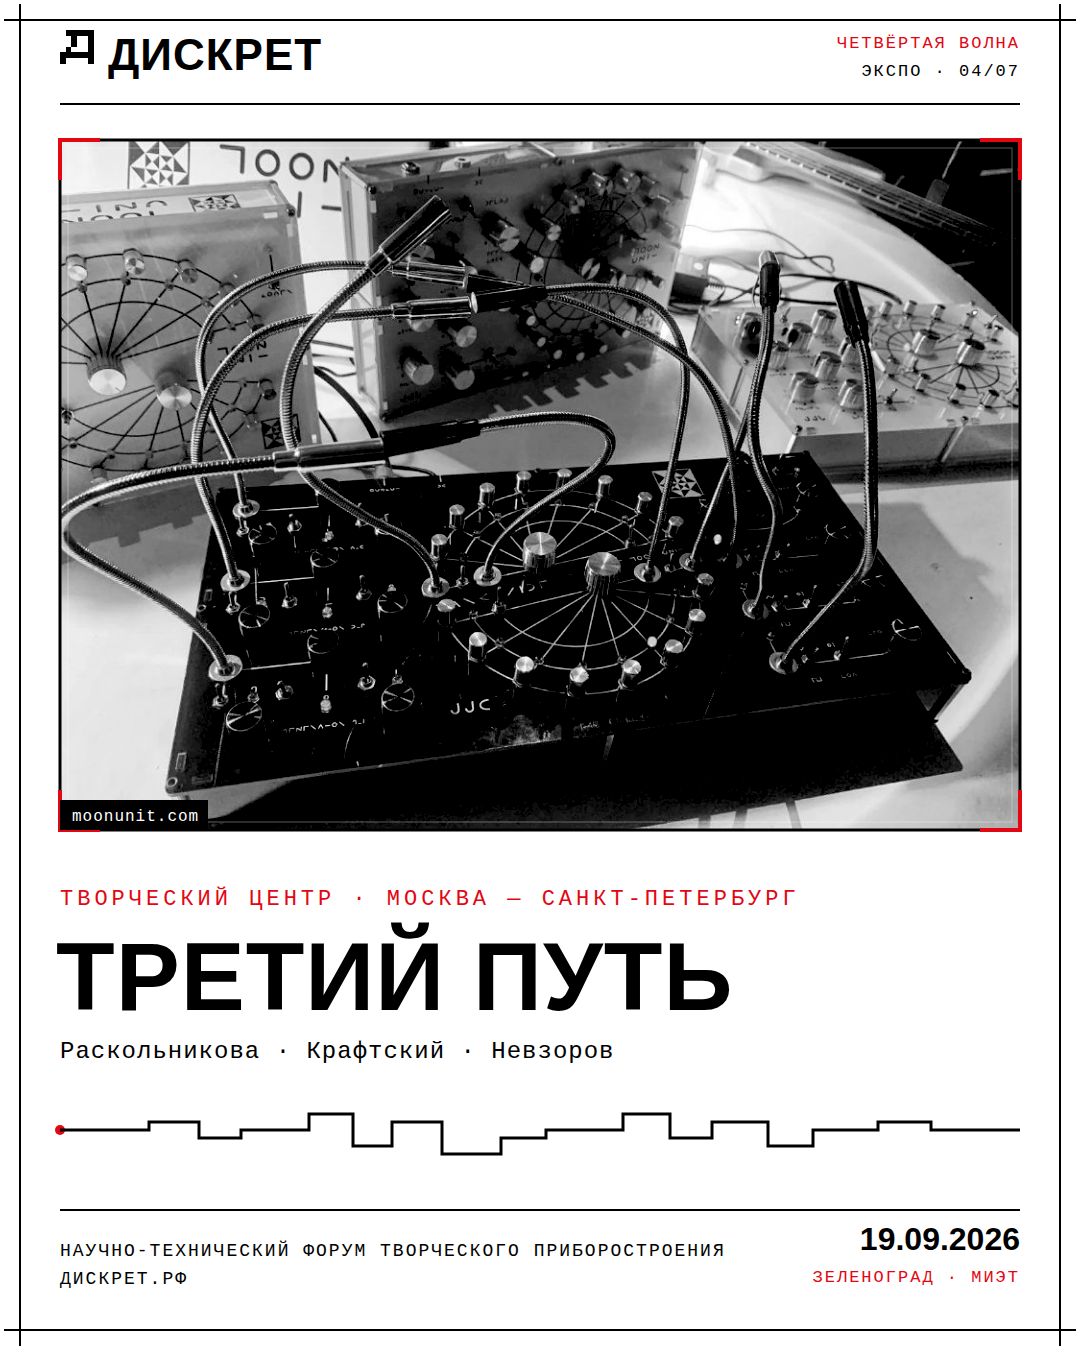
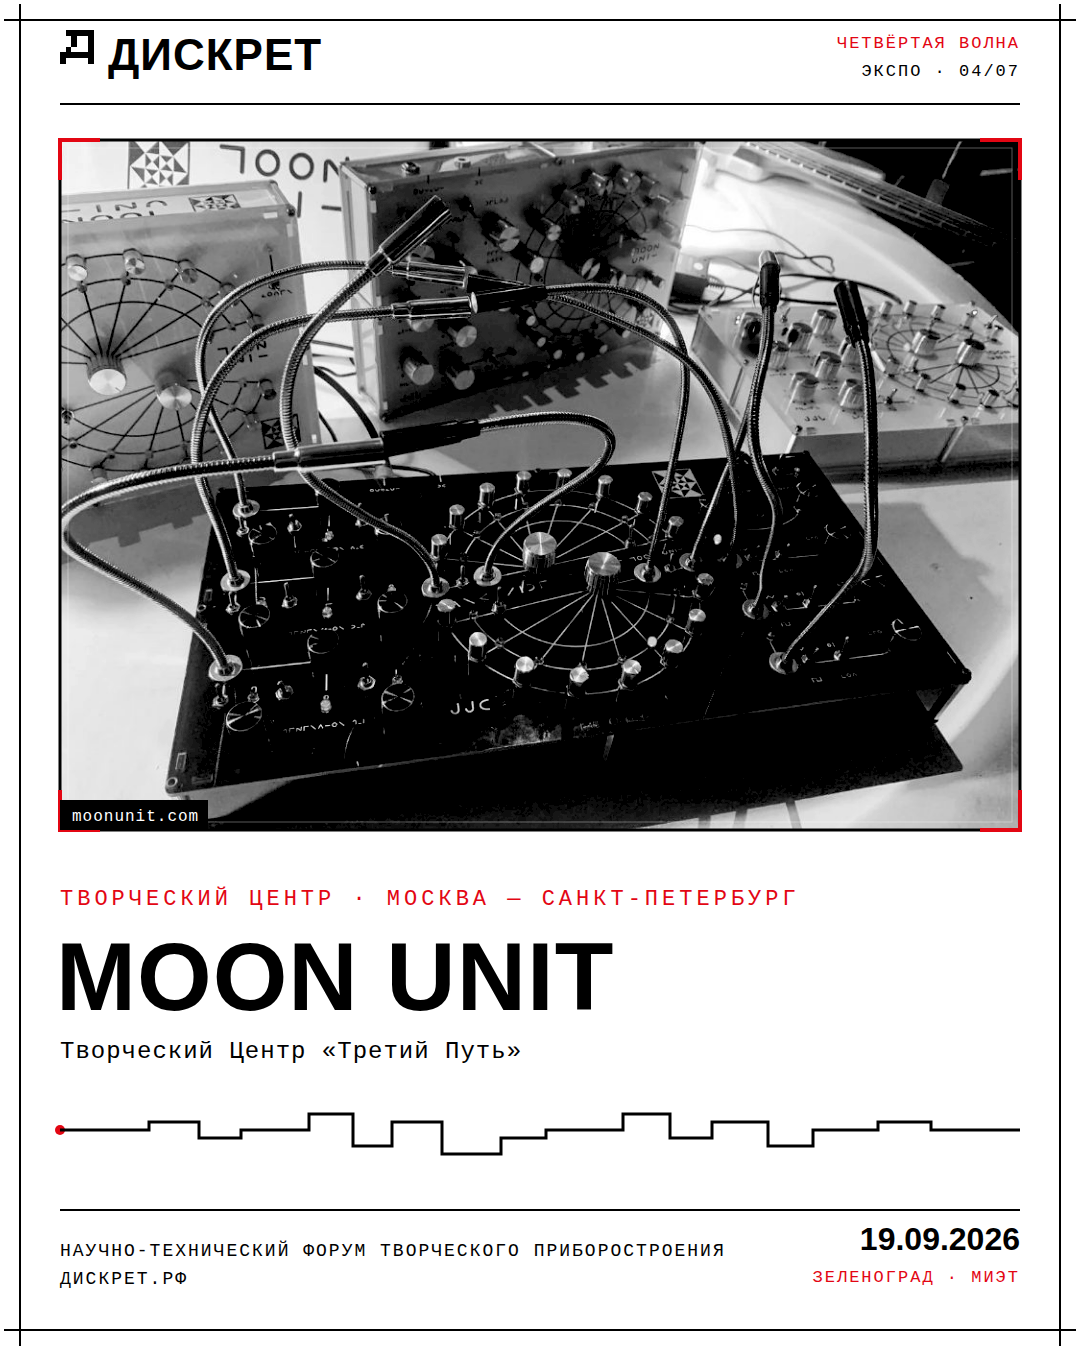
Moon Unit, девайс-карточка PORKYSYNTH, прибор ФАЗЫ — «Океан шума»
- Третий Путь: бренд Moon Unit в роли компании и на карточке волны
- девайс № 17 PORKYSYNTH — одна карточка с фото, связана с компанией
- девайс № 16 переименован в «Океан шума»

Claude-Session: https://claude.ai/code/session_01J7cakNvVwscKzgnd8yf78u

Changed region(s): [[0.0306, 0.6844, 0.6722, 0.8089], [0.0917, 0.7778, 0.1528, 0.8089]]

diff --git a/branding/app/index.html b/branding/app/index.html
@@ -489,10 +489,14 @@ const P = [
     role:"Резонансный синтез", spec:"Standalone · фильтры · обратная связь", stage:"—", time:"—",
     tags:["standalone","voice"], tbd:false, photos:["rez1","rez2","rez3"], links:[],
     desc:"Resonance-1 — электронный музыкальный инструмент, вдохновляющий на эксперименты и выход за рамки традиционного синтеза звука. В основе его работы — генерация резонансов в спектре с помощью фильтров и систем обратной связи, придающих звучанию нелинейный, экспрессивный характер." },
-  { id:"fazadev", idx:"16", device:"ФАЗА", name:"Кузнецов Никита", company:"faza", sub:"шумовое устройство", city:"Москва",
+  { id:"fazadev", idx:"16", device:"ОКЕАН ШУМА", name:"Кузнецов Никита", company:"faza", sub:"шумовое устройство", city:"Москва",
     role:"Генератор шумовой палитры", spec:"Standalone · два канала · шум", stage:"—", time:"—",
     tags:["standalone","аналог"], tbd:false, photos:["faza1"], links:[{t:"VK",u:"https://vk.ru/fazaelectronics"}],
-    desc:"Бесконечная палитра шумов в одном устройстве. Исследуйте её, но не пытайтесь подчинить. Правил нет, есть только поиск." },
+    desc:"«Океан шума» — бесконечная палитра шумов в одном устройстве. Исследуйте её, но не пытайтесь подчинить. Правил нет, есть только поиск." },
+  { id:"porkystand", idx:"17", device:"PORKYSYNTH", name:"Роман Торхов", company:"porkysynth", sub:"DIY-модульная система", city:"Челябинск",
+    role:"Модульные синтезаторы собственной сборки", spec:"Eurorack · DIY", stage:"—", time:"—",
+    tags:["eurorack","voice","аналог"], tbd:false, photos:["porky1"], links:[],
+    desc:"Модульная система, собранная и спаянная своими руками: DIY-энтузиаст Роман Торхов несёт DIY в массы, делится опытом и помогает другим погрузиться в мир электроники." },
 ];
 
 // ===== ЛЕНТА: дубли постов из Telegram (новые — сверху) =====
@@ -677,7 +681,7 @@ const C = [
   { id:"porkysynth", name:"PORKYSYNTH", role:"DIY-модульные синтезаторы · Челябинск", photos:["porky1"],
     members:[{name:"Роман Торхов"}], links:[],
     desc:"DIY-энтузиаст, в прошлом бас-гитарист: собирает и паяет модульные синтезаторы. Несёт DIY в массы — делится опытом и помогает другим погрузиться в мир электроники." },
-  { id:"tretiyput", name:"Творческий Центр «Третий Путь»", role:"Москва — Санкт-Петербург", photos:["moon1"],
+  { id:"tretiyput", name:"Творческий Центр «Третий Путь»", role:"Moon Unit · Москва — Санкт-Петербург", photos:["moon1"],
     members:[{name:"Лада Раскольникова"},{name:"Антон Крафтский"},{name:"Егор Невзоров"}],
     links:[{t:"САЙТ",u:"https://moonunit.com"}], desc:"" },
   { id:"provodochki", name:"«Проводочки»", role:"Магазин коммутации · Москва", photos:["prov1","prov2"], members:[],
